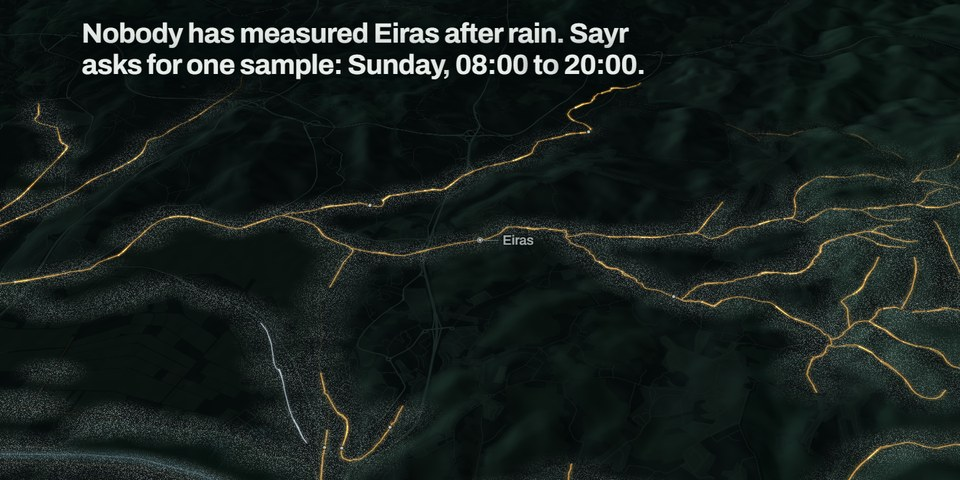
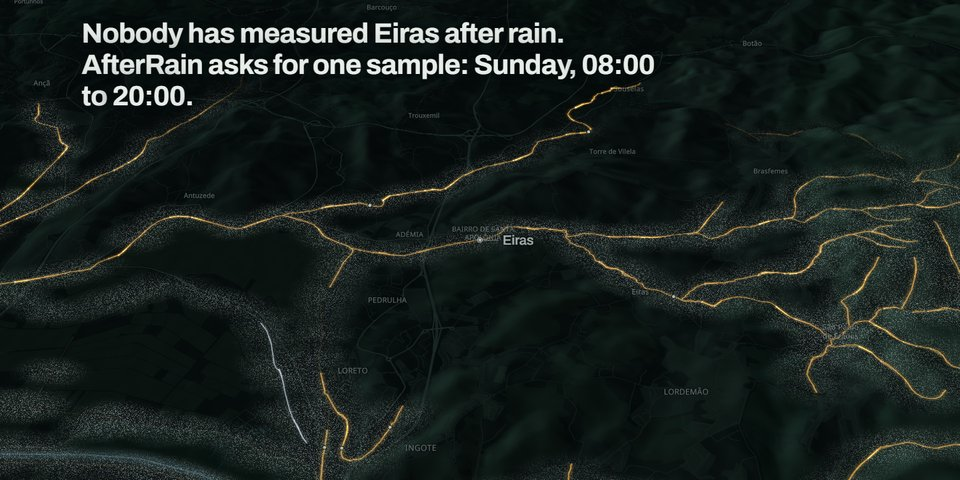
README: AfterRain name, badges and team

diff --git a/README.md b/README.md
@@ -1,14 +1,32 @@
 <p align="center">
-  <a href="https://yazan-o.github.io/sayr/"><img src="assets/hero.png" width="100%" alt="Sayr. Know the water before you go in. A night map of the River Avon above Warleigh Weir, near Bath: the Freshford storm overflow, 4.55 km upstream, lights the river orange at 10:28 on 23 September 2024."></a>
+  <a href="https://yazan-o.github.io/afterrain/"><img src="assets/hero.png" width="100%" alt="AfterRain. Know the water before you go in. A night map of the River Avon above Warleigh Weir, near Bath: the Freshford storm overflow, 4.55 km upstream, lights the river orange at 10:28 on 23 September 2024."></a>
 </p>
 
 <p align="center">
-  <b>Sayr forecasts the chance that each city stream is over 900 E. coli per 100 ml after rain,<br>hour by hour for the coming week.</b><br>
+  <a href="https://oneaquahealth-ieee-hackathon.devpost.com/"><img src="https://img.shields.io/badge/Proudly%20submitted%20to-OneAquaHealth%20IEEE%20Global%20Hackathon%202026-C2410C?style=flat&labelColor=1b2421&logo=ieee&logoColor=white" alt="Proudly submitted to the OneAquaHealth IEEE Global Hackathon 2026"></a>
+  <a href="https://github.com/Yazan-O"><img src="https://img.shields.io/badge/Built%20by-Mohamad%20Yazan%20Sadoun-1F6FEB?style=flat&labelColor=1b2421&logo=github&logoColor=white" alt="Built by Mohamad Yazan Sadoun"></a>
+  <a href="https://github.com/AbdullahOsmanR"><img src="https://img.shields.io/badge/%26-Abdullah%20Osman-1F6FEB?style=flat&labelColor=1b2421&logo=github&logoColor=white" alt="and Abdullah Osman"></a>
+  <br>
+  <a href="https://www.oneaquahealth.eu/"><img src="https://img.shields.io/badge/mission-One%20Health%3A%20people%20%C2%B7%20animals%20%C2%B7%20streams-2F8F6B?style=flat&labelColor=1b2421" alt="Mission: One Health for people, animals and streams"></a>
+  <a href="https://www.oneaquahealth.eu/"><img src="https://img.shields.io/badge/for-healthier%20city%20streams%20across%20Europe-0E7C86?style=flat&labelColor=1b2421" alt="For healthier city streams across Europe"></a>
+  <a href="https://yazan-o.github.io/afterrain/"><img src="https://img.shields.io/badge/helps-families%20know%20the%20water%20before%20they%20go%20in-FF9F1C?style=flat&labelColor=1b2421" alt="Helps families know the water before they go in"></a>
+  <br>
+  <a href="https://yazan-o.github.io/afterrain/"><img src="https://img.shields.io/badge/%F0%9F%8C%A7%EF%B8%8F%20%E2%86%92%20%F0%9F%8C%8A%20AfterRain-live%20demo-FF9F1C?style=flat&labelColor=1b2421" alt="AfterRain live demo"></a>
+  <a href="https://github.com/Yazan-O/afterrain/actions/workflows/pages.yml"><img src="https://github.com/Yazan-O/afterrain/actions/workflows/pages.yml/badge.svg" alt="Pages build and deploy status"></a>
+  <a href="LICENSE"><img src="https://img.shields.io/badge/-MIT-2E7D6B?style=flat&labelColor=1b2421&logo=opensourceinitiative&logoColor=white" alt="Licence: MIT"></a>
+  <img src="https://img.shields.io/badge/Python-3.13-3776AB?style=flat&labelColor=1b2421&logo=python&logoColor=white" alt="Python 3.13">
+  <img src="https://img.shields.io/badge/-TypeScript-3178C6?style=flat&labelColor=1b2421&logo=typescript&logoColor=white" alt="TypeScript">
+  <img src="https://img.shields.io/badge/-MapLibre%20GL-396CB2?style=flat&labelColor=1b2421&logo=maplibre&logoColor=white" alt="MapLibre GL JS">
+  <a href="fhir/"><img src="https://img.shields.io/badge/HL7%20FHIR%20R4-OAH--FHIR-0E7C86?style=flat&labelColor=1b2421" alt="HL7 FHIR R4 on the OAH-FHIR Implementation Guide"></a>
+</p>
+
+<p align="center">
+  <b>AfterRain forecasts the chance that each city stream is over 900 E. coli per 100 ml after rain,<br>hour by hour for the coming week.</b><br>
   It shows where nobody has measured, asks for the next sample, and updates the moment the result comes in.
 </p>
 
 <h3 align="center">
-  <a href="https://yazan-o.github.io/sayr/">Open the live demo</a>
+  <a href="https://yazan-o.github.io/afterrain/">Open the live demo</a>
   &nbsp;&nbsp;&middot;&nbsp;&nbsp;
   <a href="VIDEO_URL">Watch the video (3 to 5 min)</a>
 </h3>
@@ -23,7 +41,7 @@
 
 <table>
   <tr>
-    <td width="50%"><img src="assets/story-1-weir.jpg" alt="Sayr opens at Warleigh Weir near Bath, at night: People swim here. Dogs run straight in."></td>
+    <td width="50%"><img src="assets/story-1-weir.jpg" alt="AfterRain opens at Warleigh Weir near Bath, at night: People swim here. Dogs run straight in."></td>
     <td width="50%"><img src="assets/story-2-spill.jpg" alt="The Freshford storm overflow, 4.55 km upstream, opens at 10:28 and the river glows orange down to the weir."></td>
   </tr>
   <tr>
@@ -40,11 +58,11 @@
   </tr>
   <tr>
     <td><img src="assets/story-5-dogs.jpg" alt="Coimbra, at Eiras: high chance after rain from Monday 17:00. Keep dogs out until Thursday 18:00."></td>
-    <td><img src="assets/story-6-ask.jpg" alt="Nobody has measured Eiras after rain. Sayr asks for one sample: Sunday, 08:00 to 20:00."></td>
+    <td><img src="assets/story-6-ask.jpg" alt="Nobody has measured Eiras after rain. AfterRain asks for one sample: Sunday, 08:00 to 20:00."></td>
   </tr>
   <tr>
-    <td><b>The forecast.</b> Sayr forecasts the hours after rain, in one plain sentence per stream.</td>
-    <td><b>The request.</b> Where nobody has measured, Sayr asks for one sample and a time window.</td>
+    <td><b>The forecast.</b> AfterRain forecasts the hours after rain, in one plain sentence per stream.</td>
+    <td><b>The request.</b> Where nobody has measured, AfterRain asks for one sample and a time window.</td>
   </tr>
 </table>
 
@@ -116,11 +134,11 @@ In 2025, **12 of England's 14 designated river bathing waters were rated poor.**
 
 The EEA names combined sewer overflows, stormwater runoff and short-term pollution after heavy rain as the pressures. Swimming in faecally polluted water brings stomach upsets and diarrhoea, and ear, eye and upper respiratory infections.[^eea2025] The Directive states that overflows and runoff **are expected to increase** with urbanisation and the changing rain regime of climate change.[^uwwtd]
 
-**What this means for Sayr.** Every one of those plans needs storm monitoring that starts somewhere. Sayr turns the hours after rain into a forecast a city can act on today, and into a sampling request that tells its team where and when to measure next.
+**What this means for AfterRain.** Every one of those plans needs storm monitoring that starts somewhere. AfterRain turns the hours after rain into a forecast a city can act on today, and into a sampling request that tells its team where and when to measure next.
 
 <br>
 
-## What Sayr does
+## What AfterRain does
 
 <p align="center">
   <img src="assets/map-key.jpg" width="100%" alt="Coimbra's streams on a dark relief map. Each line is a stream. Brighter orange: higher chance the water is over the line. Dots: nobody has measured here after rain.">
@@ -128,7 +146,7 @@ The EEA names combined sewer overflows, stormwater runoff and short-term polluti
 
 1. **Forecasts every stream, hour by hour, for a week.** A 51-member ECMWF rain ensemble drives each stream's chance of passing 900 E. coli per 100 ml, the single-sample flag.
 2. **Shows where nobody has measured after rain.** Uncertainty is drawn as fog on the map, so a blind spot is visible at a glance.
-3. **Asks for the next sample, then updates on the spot.** For every site and hour, Sayr scores how much fog one sample clears, counting only the warning hours left after a 24-hour lab turnaround. The top-scoring site and window get the request. Enter the reading and the stream's answer redraws.
+3. **Asks for the next sample, then updates on the spot.** For every site and hour, AfterRain scores how much fog one sample clears, counting only the warning hours left after a 24-hour lab turnaround. The top-scoring site and window get the request. Enter the reading and the stream's answer redraws.
 
 <p align="center"><sub>Every stream speaks in one plain sentence</sub></p>
 <h3 align="center">"Eiras, from Monday 17:00: high chance after rain.<br>Keep dogs out until Thursday 18:00."</h3>
@@ -139,7 +157,7 @@ The EEA names combined sewer overflows, stormwater runoff and short-term polluti
   <picture>
     <source media="(prefers-color-scheme: dark)" srcset="assets/loop-dark.svg">
     <source media="(prefers-color-scheme: light)" srcset="assets/loop-light.svg">
-    <img src="assets/loop-light.svg" width="760" alt="The Sayr loop: forecast every stream; fog where nobody has measured after rain; a request for one place and one time window; a city team or a citizen takes the sample; the answer updates on the spot; then a new forecast.">
+    <img src="assets/loop-light.svg" width="760" alt="The AfterRain loop: forecast every stream; fog where nobody has measured after rain; a request for one place and one time window; a city team or a citizen takes the sample; the answer updates on the spot; then a new forecast.">
   </picture>
 </p>
 
@@ -170,34 +188,34 @@ Measured on real E. coli samples from public data. The Bath, Farleigh and Toulou
 ## Built for OneAquaHealth
 
 <p align="center">
-  <img src="assets/cities.png" width="100%" alt="OneAquaHealth's five cities in Sayr: Benevento, Coimbra, Ghent, Oslo and Toulouse, each a night relief map with its streams forecast in orange.">
+  <img src="assets/cities.png" width="100%" alt="OneAquaHealth's five cities in AfterRain: Benevento, Coimbra, Ghent, Oslo and Toulouse, each a night relief map with its streams forecast in orange.">
 </p>
 
-OneAquaHealth is a **€5.09 million Horizon Europe project**, coordinated by the University of Coimbra with 14 partners from 2023 to 2026, building an AI-powered early-warning system for urban streams.[^cordis] It links ecosystem health and human wellbeing.[^oah] Track 6 asks for early warning and resilience planning: predictive dashboards, alerts and resilience tools.[^devpost] Sayr is that early warning, working today on their data, opening in Coimbra.
+OneAquaHealth is a **€5.09 million Horizon Europe project**, coordinated by the University of Coimbra with 14 partners from 2023 to 2026, building an AI-powered early-warning system for urban streams.[^cordis] It links ecosystem health and human wellbeing.[^oah] Track 6 asks for early warning and resilience planning: predictive dashboards, alerts and resilience tools.[^devpost] AfterRain is that early warning, working today on their data, opening in Coimbra.
 
 - **Their five cities.** Benevento, Coimbra, Ghent, Oslo and Toulouse, 106 research sites. Coimbra opens the app; every city is one tap away.
 - **Their API, read-only.** Sites, 70 citizen sites, urban context, daily weather and the 96 pathogen, fecal and antibiotic-resistance risk scores. The 80-of-96 finding is computed from these samples.
-- **Their FHIR guide.** Sayr writes a 925-resource package on the OAH-FHIR profiles. The HL7 validator checks **927 files with 0 errors**, and the app serves **872** of them: a risk record for each of the 106 sites and every resource it references.
-- **A new alert profile.** `AlertOah`, a FHIR `Communication` with an "until" extension, carries messages such as "keep dogs out until this time". The guide does not model alerts yet; Sayr offers it to the authors.
+- **Their FHIR guide.** AfterRain writes a 925-resource package on the OAH-FHIR profiles. The HL7 validator checks **927 files with 0 errors**, and the app serves **872** of them: a risk record for each of the 106 sites and every resource it references.
+- **A new alert profile.** `AlertOah`, a FHIR `Communication` with an "until" extension, carries messages such as "keep dogs out until this time". The guide does not model alerts yet; AfterRain offers it to the authors.
 - **One Health.** People, dogs and the stream share one estimate. A child, a swimmer, a dog and a heron stand on every stream's bank.
 - **Citizen science.** Citizen samplers get one clear request instead of a dashboard. Their reading updates the stream on the spot.
 
 ### Mapped to the judging criteria
 
-| Criterion | What Sayr shows | Where to see it |
+| Criterion | What AfterRain shows | Where to see it |
 |:--|:--|:--|
 | **Impact and alignment** (30%) | Early warning for the hours after rain in all five OneAquaHealth cities; people, dogs and the stream in one estimate; a direct line to the EU's 2033 storm plans | Live demo, Coimbra; [Why it matters](#why-it-matters) |
-| **Innovation and creativity** (20%) | A stream that knows where it is blind and asks for its next sample; uncertainty drawn as fog | Live demo, the story from "Sayr forecasts those hours."; [the loop](#what-sayr-does) |
+| **Innovation and creativity** (20%) | A stream that knows where it is blind and asks for its next sample; uncertainty drawn as fog | Live demo, the story from "AfterRain forecasts those hours."; [the loop](#what-afterrain-does) |
 | **Technical implementation** (20%) | 43 of 44 and a held-out AUC 0.95 on real samples; exact Bayesian update in the browser; 927 FHIR files, 0 errors; one command rebuilds every number | [Proof](#proof); [Under the hood](#under-the-hood) |
 | **Usability and UX** (15%) | One plain sentence per stream; no login; phone and laptop; a narrated story that hands over to free exploration | Live demo on a phone |
 | **Feasibility and scalability** (15%) | Static site, no compute server, daily forecast build; England's ten water companies already publish live overflow status, the next river in line | [Under the hood](#under-the-hood) |
 
 ### What's next
 
-1. **A pilot in one OneAquaHealth city:** two storm-triggered sampling days from Sayr's requests, each result updating the stream.
+1. **A pilot in one OneAquaHealth city:** two storm-triggered sampling days from AfterRain's requests, each result updating the stream.
 2. **`AlertOah`** offered to the guide's authors.
 3. **England next.** A new river takes its overflow feed, a model fit and a test on its own samples.
-4. **Storm plans in every large EU city.** Sayr's sampling requests give the Article 5 plans' storm monitoring a place to start.
+4. **Storm plans in every large EU city.** AfterRain's sampling requests give the Article 5 plans' storm monitoring a place to start.
 
 <br>
 
@@ -208,7 +226,7 @@ OneAquaHealth is a **€5.09 million Horizon Europe project**, coordinated by th
 
 <br>
 
-![Sayr architecture: public sources, one Python pipeline, static JSON with provenance, the browser model, and the FHIR build](docs/architecture.png)
+![AfterRain architecture: public sources, one Python pipeline, static JSON with provenance, the browser model, and the FHIR build](docs/architecture.png)
 
 Public sources feed one Python pipeline, which writes static JSON with provenance. The browser runs the model, the spill transport, the fog update and the clock in TypeScript, so the site needs no compute server. A FHIR generator turns the same JSON into OAH-FHIR resources, the HL7 validator checks them, and a static read-only FHIR surface serves them (or a HAPI FHIR server loads them). Diagram source: [docs/architecture.svg](docs/architecture.svg), [docs/architecture.html](docs/architecture.html).
 
@@ -232,7 +250,7 @@ npm run build      # production build in web/dist
 npm test           # schemas, model, replay, transport, fog, time zones
 ```
 
-`npm run dev` needs Python with Pillow (`pip install -r requirements.txt`) and fetches terrain tiles on its first run. For GitHub Pages, build with `SAYR_BASE=/sayr/`. [web/README.md](web/README.md) documents the scenes, the film clock and the quality checks.
+`npm run dev` needs Python with Pillow (`pip install -r requirements.txt`) and fetches terrain tiles on its first run. For GitHub Pages, build with `SAYR_BASE=/afterrain/`. [web/README.md](web/README.md) documents the scenes, the film clock and the quality checks.
 
 **Pipeline** (from the repository root):
 
@@ -250,7 +268,7 @@ A missing input stops the build with its file name and URL. Nothing is filled in
 
 ```
 npm ci
-npm run fhir          # build the guide and Sayr's resources, validate them, write fhir-static/
+npm run fhir          # build the guide and AfterRain's resources, validate them, write fhir-static/
 npm run fhir:test     # re-run the validator and check the values against data/out
 npm run fhir:serve    # read-only FHIR surface on http://127.0.0.1:8777/
 ```
@@ -283,7 +301,9 @@ Contains Wessex Water data (CC BY 4.0), Environment Agency data (OGL v3.0), (c) 
 
 <br>
 
-Built by the Sayr team, a team of students, for the OneAquaHealth IEEE Global Hackathon 2026. Thanks to the OneAquaHealth consortium for the open API and the OAH-FHIR guide. Code: MIT.
+**Team:** [Mohamad Yazan Sadoun](https://github.com/Yazan-O) and [Abdullah Osman](https://github.com/AbdullahOsmanR).
+
+Built by the AfterRain team, a team of students, for the OneAquaHealth IEEE Global Hackathon 2026. Thanks to the OneAquaHealth consortium for the open API and the OAH-FHIR guide. Code: MIT.
 
 [^ea2024]: Environment Agency, "Water and sewerage companies in England: environmental performance report for 2024", section 7.2, 23 October 2025. https://www.gov.uk/government/publications/water-and-sewerage-companies-in-england-environmental-performance-report-2024/water-and-sewerage-companies-in-england-environmental-performance-report-for-2024
 [^eariver]: Environment Agency blog, "Improving inland bathing waters: why progress takes time", 28 November 2025. https://environmentagency.blog.gov.uk/2025/11/28/improving-inland-bathing-waters-why-progress-takes-time/
